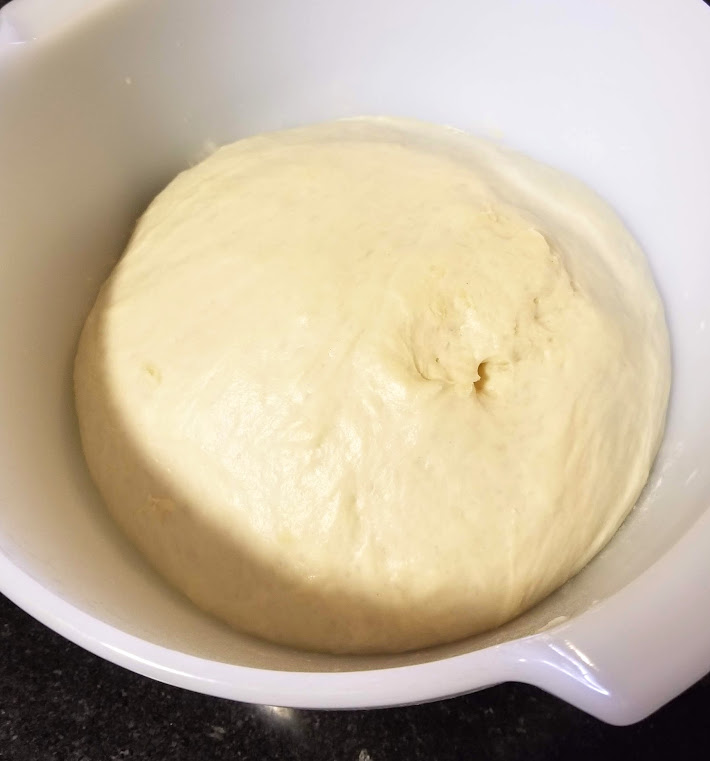
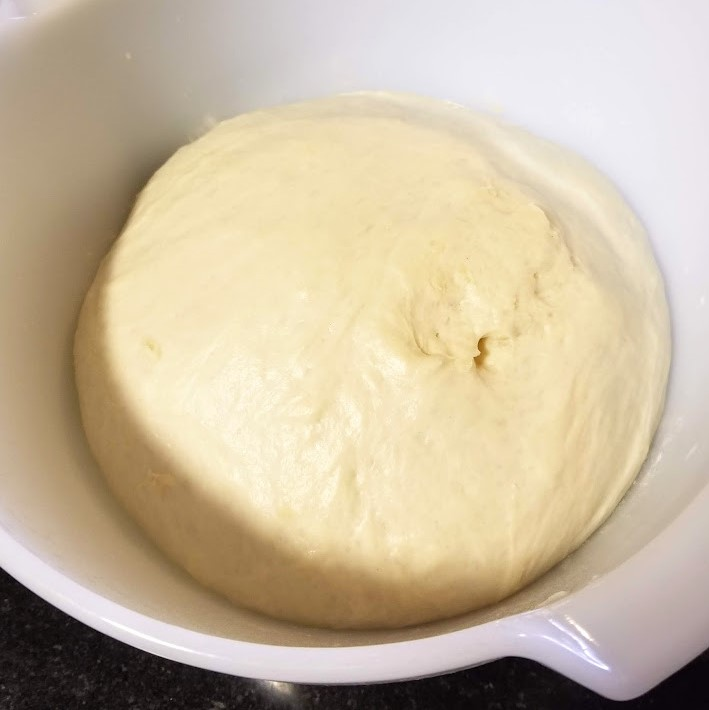
s

diff --git a/foodventures/_posts/2019-06-23-what-i-ate-jun-17-23.md b/foodventures/_posts/2019-06-23-what-i-ate-jun-17-23.md
@@ -47,11 +47,9 @@ Since I was testing this recipe out for the first time, I halved the ingredients
 1. Drop the dough baby into a lined loaf pan. Cover with the same sheet of plastic wrap and let rest again, for 0.5–1 hour.
 1. Bake at 350 °F for 30 minutes.
 
-![amish white bread dough](/food/foodventures/images/amish-white-bread-2.jpg){:width="40%"}{: .image-left}
+![amish white bread dough](/food/foodventures/images/amish-white-bread-2.jpg){:width="30%"}{: .image-left} ![homemade amish white bread](/food/foodventures/images/amish-white-bread-3.jpg){:width="30%"}{: .image-left}
 
 This dough is a dream to work with. See how soft and smooth it is? So wonderful to handle. Barely sticks to anything, so no need to grease the bowl while you let it rise. It's so easy and fun to make. I only wish I had remembered to scale down the recipe just a little bit to accommodate for my tiny loaf pan and tiny toaster oven. This bread ended up rising so much, way out of the pan, and in the oven, it rose even more and ended up hitting the top of the oven! I'm just glad that the upper heating element wasn't on, or the crust would be burnt to a crisp.
-
-![homemade amish white bread](/food/foodventures/images/amish-white-bread-3.jpg){:width="60%"}{: .image-left}
 
 That's the reason you see a dent on the top of the bread, and the reason I had to take it out of the oven prematurely. The inside was a little undercooked, but still very edible. This dough was a great success, and I didn't even mind the slight gumminess on the inside because the rest of it is so soft and chewy. I can see this being a great recipe for buns too. I do wonder what makes it "Amish," though. It's different from Amish friendship bread, which involves a sourdough starter. The ingredients for this one are standard for any Italian bread, and I'm not really sure what it has to do with Amish people especially.
 
